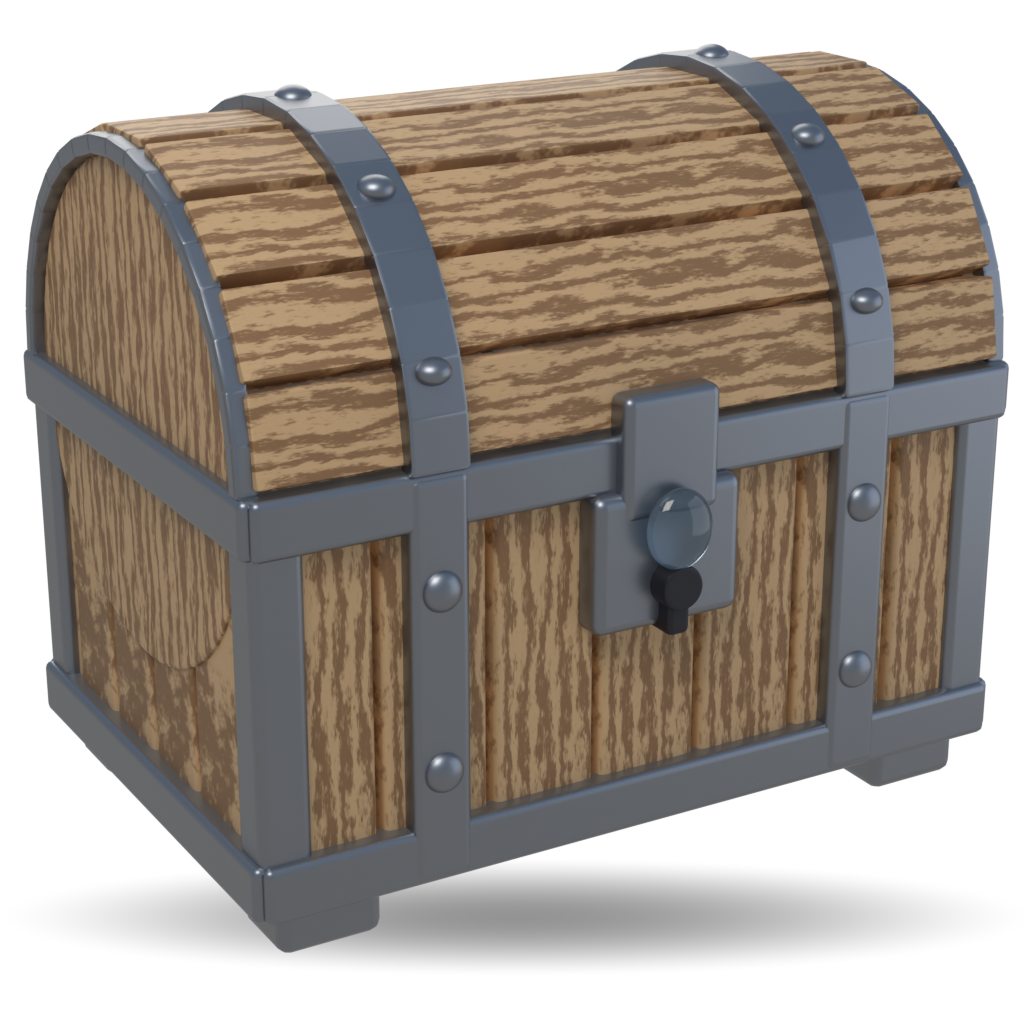
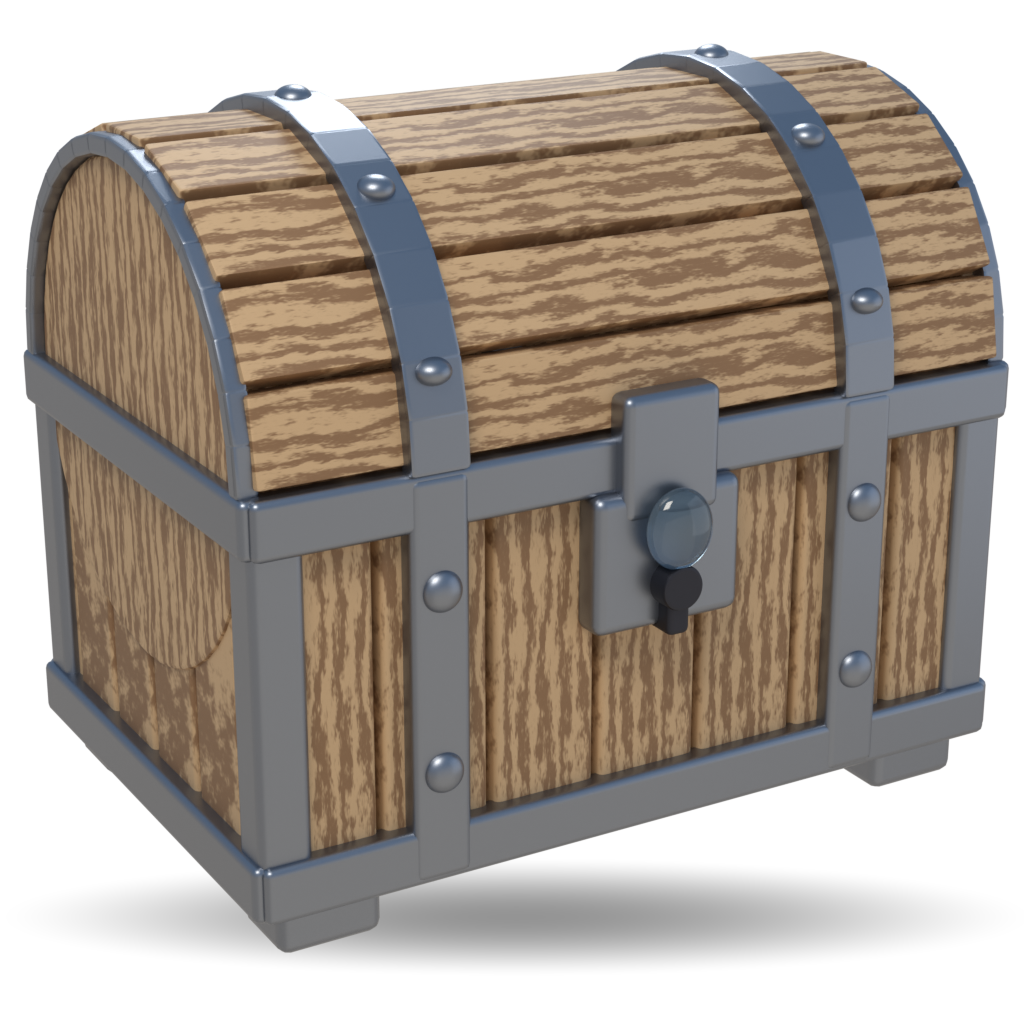
The rig gains a cool rim and a ground bounce -- one pass relights every prop
Key smaller and crisper, fill down to 0.18x so the dark side is dark, a
dedicated hard cool rim that cuts the object off the dark board the way
the HULL keyline cuts the UI, and a warm bounce so undersides stop
falling to mud. All twelve props re-rendered through it; total wattage
within a few percent of the old rig, so nothing clips.

diff --git a/tools/render_props.py b/tools/render_props.py
@@ -58,7 +58,7 @@ def reset():
     return s
 
 
-def world_sky(top=(0.55, 0.72, 0.95), bottom=(0.95, 0.92, 0.86), strength=0.42):
+def world_sky(top=(0.42, 0.65, 0.98), bottom=(0.98, 0.90, 0.80), strength=0.52):
     """A gradient the metal can reflect. Invisible to camera, visible in specular."""
     w = bpy.data.worlds.new("sky")
     bpy.context.scene.world = w
@@ -427,12 +427,43 @@ def hoard(n=150, seed=7):
 # and on a bright island page both, so the object has to carry its own edge --
 # see loot-lagoon-keyline-and-contrast for why every object in the game got one.
 
-def rig(key=260.0, warm=(1.0, 0.95, 0.86)):
-    light((-3.4, -3.2, 6.6), key, size=4.0, color=warm, aim=(0, 0, 0.5))
-    light((5.0, -3.4, 1.4), key * 0.28, size=6.0, color=(0.80, 0.88, 1.0),
+def rig(key=290.0, warm=(1.0, 0.94, 0.84)):
+    """Four lights, upgraded 2026-09-10 from the original three.
+
+    What changed and why -- this is the "one pass upgrades every icon" rung of
+    the juice plan, so the reasoning lives here rather than in a commit message:
+
+      * The key came DOWN in size (4.0 -> 3.2) and up a touch in energy. A
+        smaller source draws a crisper terminator and a tighter specular ping,
+        which is most of the difference between toy-commercial lighting and
+        product-catalogue lighting. Toy colour holds saturation in the light
+        and drops toward shadow with an edge you can see.
+      * The fill dropped from 0.28x to 0.18x of key. At 0.28 the shadow side
+        was half as bright as the lit side and the form read flat; at 0.18 the
+        dark side is genuinely dark and the rim has something to cut against.
+      * The rim is its own light now, COOL and hard (small size), placed high
+        behind on the camera's right. The old third light was warm and huge, so
+        it acted as a second fill from behind; this one draws a bright cool
+        line down the shadow edge, which is what separates the object from the
+        dark board -- the same job the HULL keyline does for the UI, done in
+        light. Cool on purpose: a warm rim melts into brass and gold, a cool
+        one reads against them.
+      * A ground BOUNCE was added, warm, shadowless and weak, from below the
+        camera. Undersides used to fall to mud; a bounce is what real ground
+        does to a real object, and it is the difference between "sitting on
+        something" and "cut out and pasted".
+
+    Exposure discipline: total wattage is within a few percent of the old rig
+    (the fill gave back what the key and rim took), so nothing clips -- the
+    1800W paper-white trap documented at the top of this file still holds.
+    """
+    light((-3.4, -3.2, 6.6), key, size=3.2, color=warm, aim=(0, 0, 0.5))
+    light((5.0, -3.4, 1.4), key * 0.18, size=6.0, color=(0.78, 0.87, 1.0),
           aim=(0, 0, 0.7), shadow=False)
-    light((1.6, 5.2, 4.2), key * 0.55, size=5.0, color=(1.0, 0.93, 0.82),
-          aim=(0, 0, 1.0), shadow=False)
+    light((2.6, 4.8, 5.6), key * 0.62, size=2.2, color=(0.93, 0.97, 1.0),
+          aim=(0, 0, 0.9))
+    light((0.0, -4.6, -1.4), key * 0.10, size=7.0, color=(1.0, 0.92, 0.78),
+          aim=(0, 0, 0.6), shadow=False)
 
 
 def contact_shadow(path, strength=0.42, spread=1.06, squash=0.115, lift=0.010):
